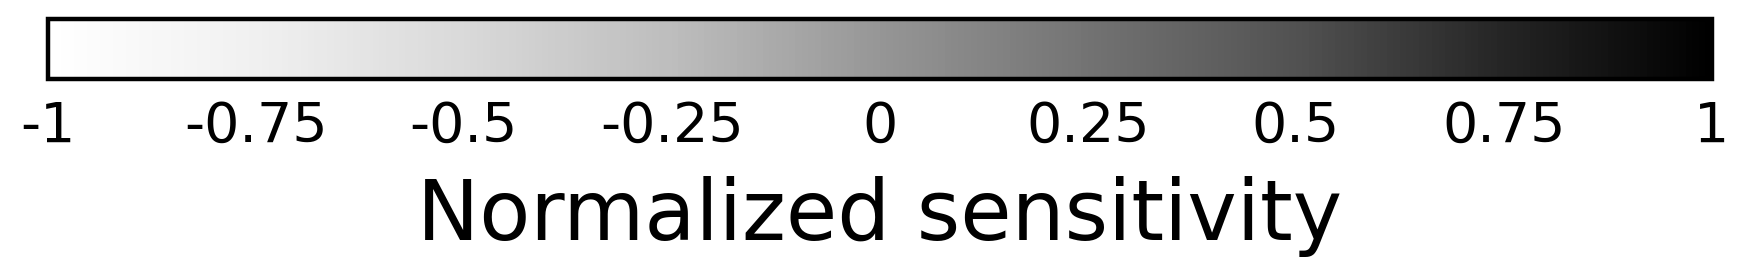
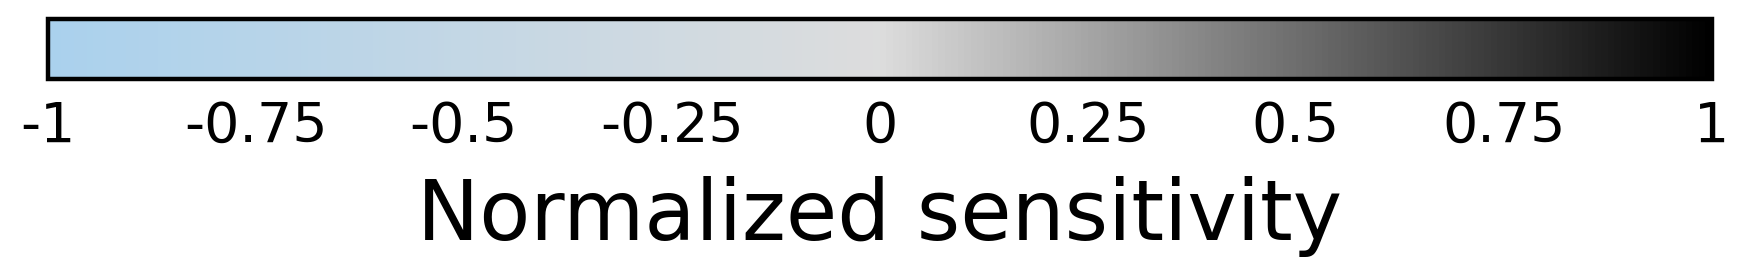
🌑

Changed region(s): [[0.3087, 0.058, 0.8027, 0.2899], [0.0309, 0.058, 0.2779, 0.2899]]

diff --git a/projects/pdes/dc-xbore-vis/pseudo_visimple.py b/projects/pdes/dc-xbore-vis/pseudo_visimple.py
@@ -17,7 +17,7 @@ dpi=400
 # cytwombly_ , groundwater_colorblind_ , contaminant , crazy_mellow , turbo
 # tabber , glacier_, gnuplot, batlow, berlin, plasma, prism nipy_spectral
 # tokyo, bam, cork, broc roma hawaii lisbon Greys kkrr y-b
-colo='Greys'
+colo='abn'
 colo_='cuatrocolo' # cuatrocolo qualitcolor
 
 colo_txt = (0,0,0)
@@ -167,27 +167,36 @@ holdon='on'
 # ------------------------------------------------------------------------------
 ax0.annotate("slice in width",xy=(2.6,5.9),fontsize=fontsize_,color=colo_txt,ha='left')
 # ------------------------------------------------------------------------------
-#  pseudoloc
+#  𝐦 pseudo
 fancy_figure(
 ax_=ax0,
 curve=pseud[iabmn1-1,1],
 x=pseud[iabmn1-1,0],
-ax_accu="%.0f",
-symbol='.',
-markersize=25,
-colop=((0,0,0)),
+symbol='o',
+scatter_colo=abmn[iabmn[2]-1,2],
+scatter_size=90,
+fillstyle='top',
+vmin=iabmnmin,
+vmax=iabmnmax,
+colop=colo_,
+colorbaron='off',
 holdon='on'
-).plotter()
+).scatterer()
+#  𝐧 pseudo
 fancy_figure(
 ax_=ax0,
 curve=pseud[iabmn1-1,1],
 x=pseud[iabmn1-1,0],
-ax_accu="%.0f",
-symbol='.',
-markersize=15,
-colop=((0.9290,0.6940,0.1250)),
+symbol='o',
+scatter_colo=abmn[iabmn[2]-1,3],
+scatter_size=90,
+fillstyle='bottom',
+vmin=iabmnmin,
+vmax=iabmnmax,
+colop=colo_,
+colorbaron='off',
 holdon='on'
-).plotter()
+).scatterer()
 # ------------------------------------------------------------------------------
 #                                   🐘 electrxyz 🐘
 # ------------------------------------------------------------------------------
@@ -198,8 +207,8 @@ curve=electrxyz[1,src[0]-1],
 x=electrxyz[0,src[0]-1],
 ax_accu="%.0f",
 symbol='s',
-markersize=5,
-colop=((0,1,1)),
+markersize=6,
+colop=((1,1,1)),
 holdon='on'
 ).plotter()
 # 𝐛
@@ -209,34 +218,42 @@ curve=electrxyz[1,src[1]-1],
 x=electrxyz[0,src[1]-1],
 ax_accu="%.0f",
 symbol='s',
-markersize=5,
-colop=((0,1,1)),
+markersize=6,
+colop=((1,1,1)),
 holdon='on'
 ).plotter()
-# 𝐦
+#  𝐦
 fancy_figure(
 ax_=ax0,
 curve=electrxyz[1,recs[0,0]-1],
 x=electrxyz[0,recs[0,0]-1],
-ax_accu="%.0f",
 symbol='s',
-markersize=5,
-colop=((0.84,0.05,0.26)),
+scatter_colo=abmn[iabmn[2]-1,2],
+scatter_size=80,
+# fillstyle='top',
+vmin=iabmnmin,
+vmax=iabmnmax,
+colo=colo_,
+colorbaron='off',
 holdon='on'
-).plotter()
-# 𝐧
+).scatterer()
+#  𝐧
 fancy_figure(
 ax_=ax0,
 curve=electrxyz[1,recs[1,0]-1],
 x=electrxyz[0,recs[1,0]-1],
-ax_accu="%.0f",
 symbol='s',
-markersize=5,
-colop=((0.84,0.05,0.26)),
+scatter_colo=abmn[iabmn[2]-1,3],
+scatter_size=80,
+# fillstyle='bottom',
+vmin=iabmnmin,
+vmax=iabmnmax,
+colop=colo_,
+colorbaron='off',
 xlabel='Length',
 ylabel='Depth',
 holdon='on'
-).plotter()
+).scatterer()
 # ------------------------------------------------------------------------------
 # ------------------------------------------------------------------------------
 # ------------------------------------------------------------------------------
@@ -266,8 +283,8 @@ curve=electrxyzk[1,srck[0]-1],
 x=electrxyzk[0,srck[0]-1],
 ax_accu="%.0f",
 symbol='s',
-markersize=5,
-colop=((0,1,1)),
+markersize=6,
+colop=((1,1,1)),
 holdon='on'
 ).plotter()
 # 𝐛
@@ -277,8 +294,8 @@ curve=electrxyzk[1,srck[1]-1],
 x=electrxyzk[0,srck[1]-1],
 ax_accu="%.0f",
 symbol='s',
-markersize=5,
-colop=((0,1,1)),
+markersize=6,
+colop=((1,1,1)),
 holdon='on'
 ).plotter()
 #  𝐦
@@ -372,8 +389,8 @@ curve=electrxyz[1,src[0]-1],
 x=electrxyz[0,src[0]-1],
 ax_accu="%.0f",
 symbol='s',
-markersize=5,
-colop=((0,1,1)),
+markersize=6,
+colop=((1,1,1)),
 holdon='on'
 ).plotter()
 # 𝐛
@@ -383,8 +400,8 @@ curve=electrxyz[1,src[1]-1],
 x=electrxyz[0,src[1]-1],
 ax_accu="%.0f",
 symbol='s',
-markersize=5,
-colop=((0,1,1)),
+markersize=6,
+colop=((1,1,1)),
 holdon='on'
 ).plotter()
 #  𝐦
@@ -395,7 +412,7 @@ x=electrxyz[0,recs[0,:]-1],
 symbol='s',
 scatter_colo=recs[0,:],
 scatter_size=80*np.ones(iabmn.shape[0]),
-fillstyle='left',
+# fillstyle='top',
 vmin=iabmnmin,
 vmax=iabmnmax,
 colo=colo_,
@@ -410,7 +427,7 @@ x=electrxyz[0,recs[1,:]-1],
 symbol='s',
 scatter_colo=recs[1,:],
 scatter_size=80*np.ones(iabmn.shape[0]),
-fillstyle='right',
+# fillstyle='bottom',
 vmin=iabmnmin,
 vmax=iabmnmax,
 colo=colo_,
@@ -426,7 +443,7 @@ x=pseud[iabmn-1,0],
 symbol='o',
 scatter_colo=abmn[iabmn-1,2],
 scatter_size=90*np.ones(iabmn.shape[0]),
-fillstyle='left',
+fillstyle='top',
 vmin=iabmnmin,
 vmax=iabmnmax,
 colo=colo_,
@@ -441,7 +458,7 @@ x=pseud[iabmn-1,0],
 symbol='o',
 scatter_colo=abmn[iabmn-1,3],
 scatter_size=90*np.ones(iabmn.shape[0]),
-fillstyle='right',
+fillstyle='bottom',
 vmin=iabmnmin,
 vmax=iabmnmax,
 colo=colo_,

diff --git a/src/python/graphics/fancy_figure/fancy_figure.py b/src/python/graphics/fancy_figure/fancy_figure.py
@@ -996,6 +996,11 @@ class fancy_figure():
             colo  = [(1.0000,0.8706,0.0824),(0.9451,0.3490,0.1647),(0.9294,0.1059,0.1412),(0.6275,0.1216,0.3843),(0.3961,0.1765,0.5725),(0.1294,0.2431,0.6039),(0.0471,0.6275,0.2902)]
             colo  = LinearSegmentedColormap.from_list('name',colors=colo,N=256)
         # -------------------------
+        if self.colo == 'abn':
+            from matplotlib.colors import LinearSegmentedColormap
+            colo  = [(0.6667,0.8196,0.9294),(0.865,0.865,0.865),(0,0,0)]
+            colo  = LinearSegmentedColormap.from_list('name',colors=colo,N=256)
+        # -------------------------
         if self.colo == 'tepoz':
             from matplotlib.colors import LinearSegmentedColormap
             # tierra hojas cielo rojo piedra
